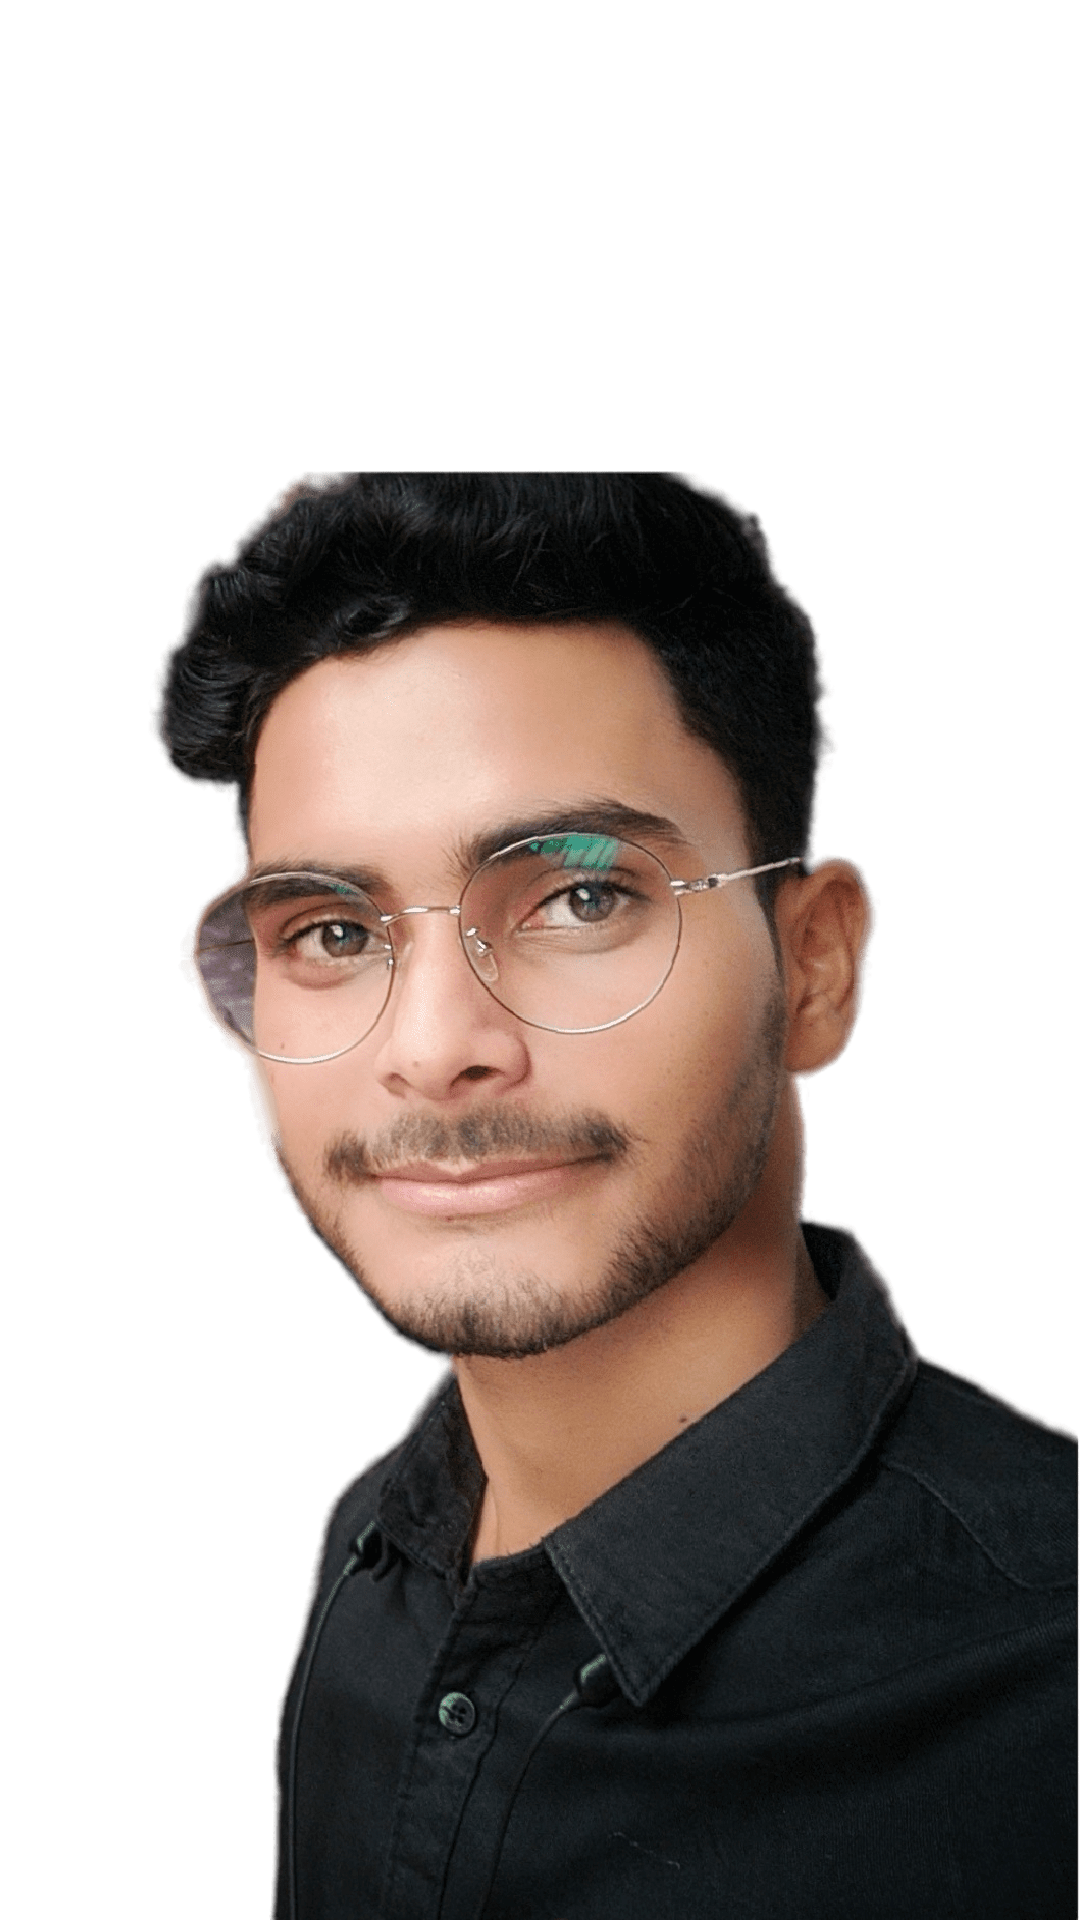
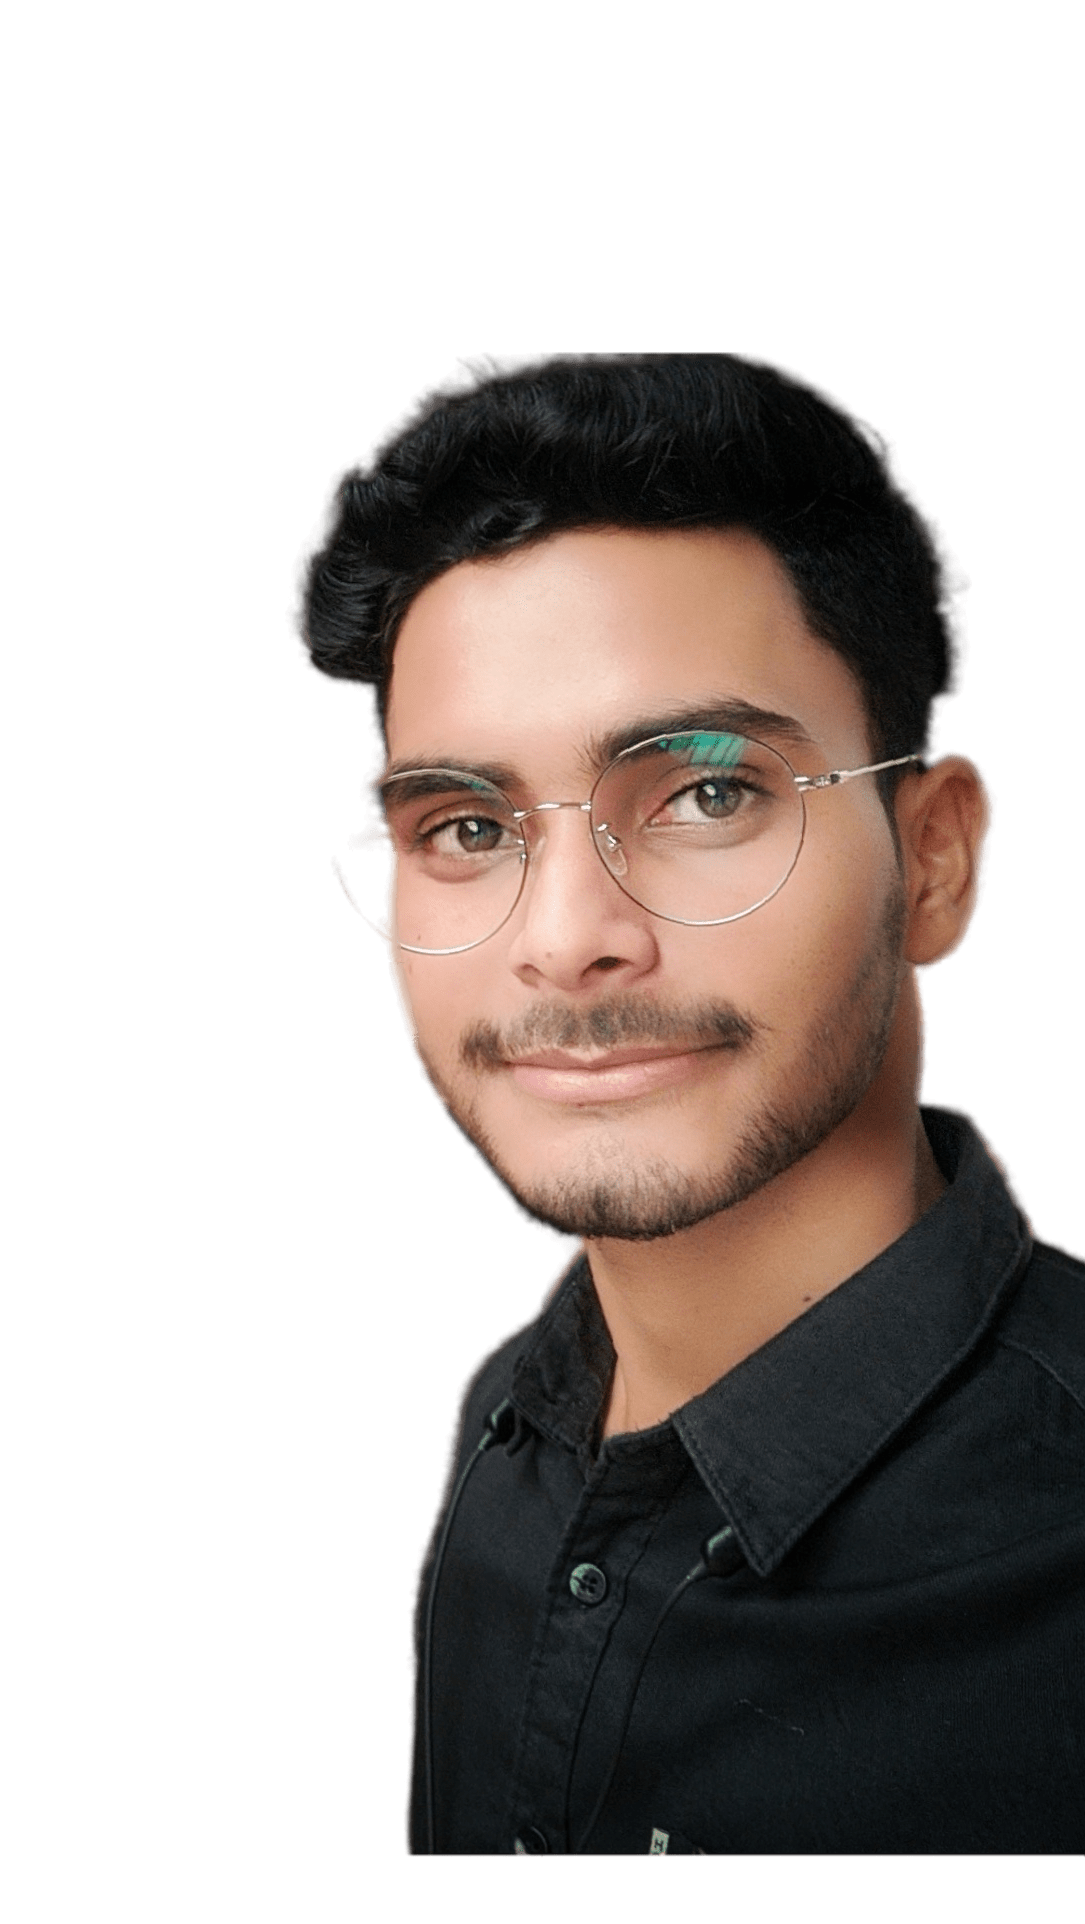
fixed alignment

diff --git a/index.html b/index.html
@@ -57,6 +57,7 @@
             looking forward to launching his career as a node JS back-end
             developer.
           </p>
+          <a href="./images/Prashant_Verma_Resume.pdf" download target="_blank" class="btn resume_btan" id="resume-button-2" id="resume-link-2">Downlode Resume</a>
           <div class="tab-titles">
             <p class="tab-links active-link" onclick="opentab('tech-skills')">Technical Skills</p>
             <p class="tab-links" onclick="opentab('soft-skills')">Soft Skills</p>
@@ -219,7 +220,7 @@
         </div>
         <div class="skills-card">
           <img class="skills-card-img" src="./images/mysql-icon.png" alt="">
-          <p>My SQL</p>
+          <p class="skills-card-name">My SQL</p>
         </div>
         <div class="skills-card">
           <img class="skills-card-img" src="./images/react-js-icon.png" alt="">
@@ -425,7 +426,7 @@
             <a href=""><i class="fab fa-twitter"></i></i></a>
             <a href="https://github.com/prashant9191" id="contact-github"><i class="fab fa-github"></i></i></a>
           </div>
-          <a href="./images/Prashant_Verma_Resume.pdf" download target="_blank" class="btn resume_btan" id="resume-button-2" id="resume-link-2">Downlode CV</a>
+          <a href="./images/Prashant_Verma_Resume.pdf" download target="_blank" class="btn">Downlode Resume</a>
         </div>
         <div class="contact-right">
           <form name="submit-to-google-sheet">
@@ -468,23 +469,4 @@
   crossorigin="anonymous" referrerpolicy="no-referrer"></script>
 <script src="./javascript/index.js"></script>
 </script>
-
 </html>
-
-
-
-<!-------------------------------- Github Section ---------------------------------------->
- <!-- <div id="stats">  -->
-<!-- <h2 class="mid">My Stats</h2>
-<hr>
-<div class="flex">
-<div>
-<h2>1000+</h2>
-<p>Hours of Coding</p>
-</div>
-<div>
-<h2>100+</h2>
-<p>Hours of Soft Skills</p>
-</div>
-</div>
-</div>  -->

diff --git a/style/style.css b/style/style.css
@@ -95,7 +95,7 @@ nav ul li a:hover::after {
   color: #43a047;
 }
 /* ---------------------------------about----------------------------- */
-#About {
+#about {
   padding: 80px 0px;
   color: #ababab;
 }
@@ -166,7 +166,7 @@ nav ul li a:hover::after {
 /* <!-- ---------------services------------------ --> */
 
 #services {
-  padding: 55px 0;
+  padding: 65px 0;
 }
 .services-list {
   display: grid;
@@ -196,7 +196,7 @@ nav ul li a:hover::after {
   transform: scale3d(1.03, 1.03, 1.03);
 }
 /* <!-- ---------------SKILLS------------------ --> */
-#Skills {
+#skills {
   padding: 70px 0;
 }
 
@@ -254,7 +254,7 @@ nav ul li a:hover::after {
 }
 
 /* <!-- ---------------Projects------------------ --> */
-#Projects {
+#projects {
   padding: 70px 0;
 }
 
@@ -363,6 +363,8 @@ nav ul li a:hover::after {
   color: white;
   margin: 10px 0;
   font-weight: bold;
+  display: inline-block;
+  border: none;
 }
 .btn:hover {
   cursor: pointer;
@@ -579,7 +581,6 @@ nav .fas {
   .header-text {
     font-size: 26px;
     margin-top: 100%;
-    border: 2px solid yellow;
   }
   .header-text h1 {
     font-size: 30px;
